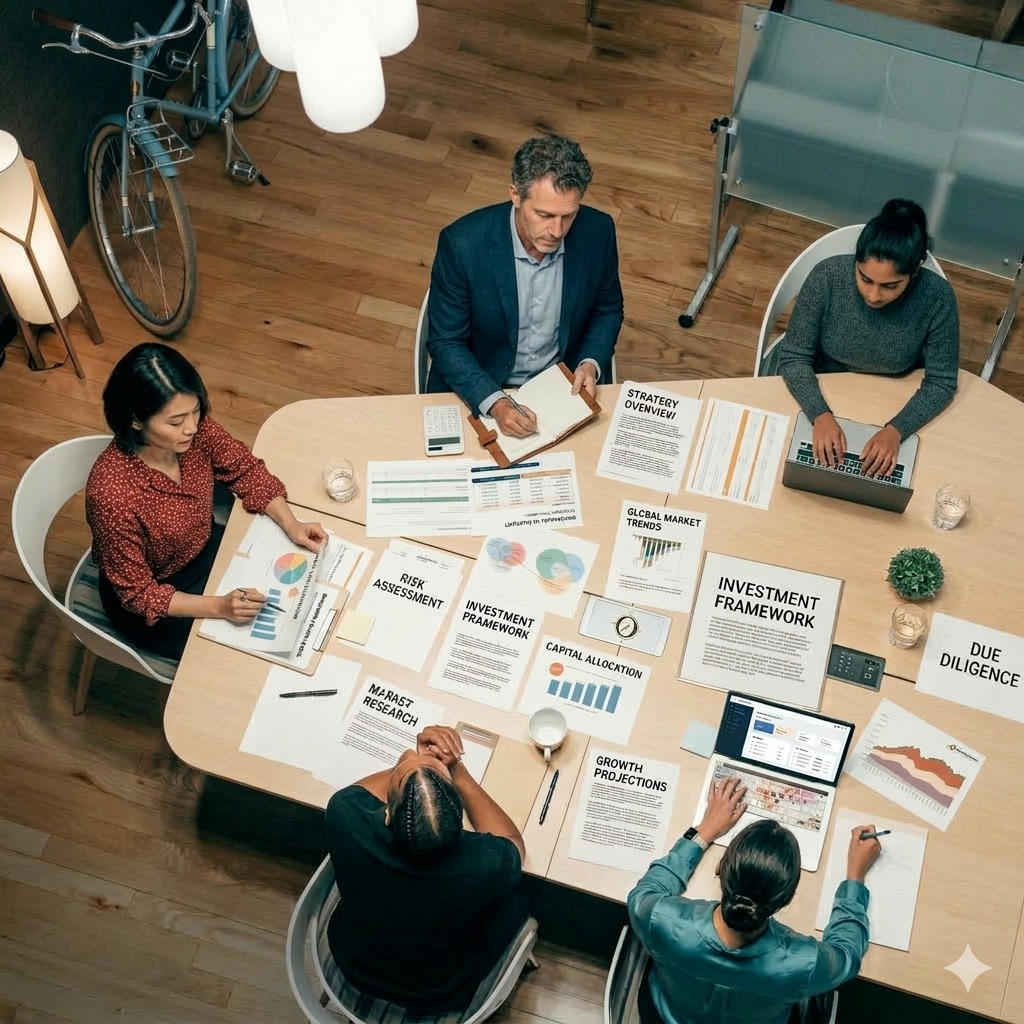
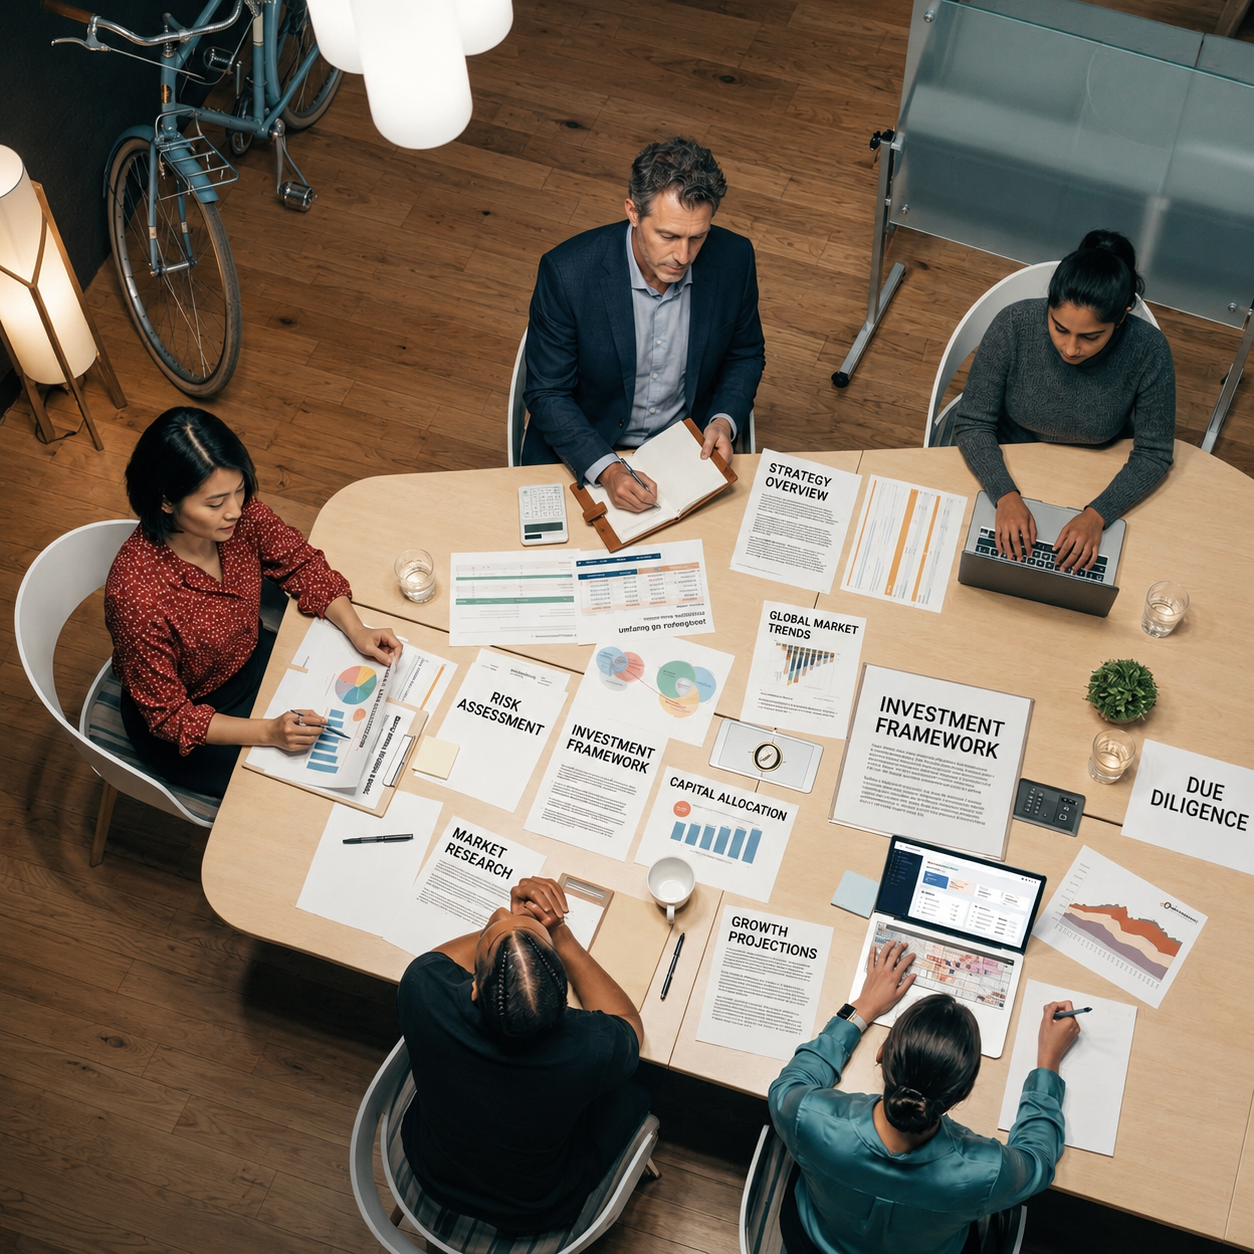
.

diff --git a/Assets/css/main.css b/Assets/css/main.css
@@ -10,7 +10,7 @@
   --background-color: #ffffff; /* Background color for the entire website, including individual sections */
   --default-color: #52413a; /* Default color used for the majority of the text content across the entire website */
   --heading-color: #31221c; /* Color for headings, subheadings and title throughout the website */
-  --accent-color: #f85d23; /* Accent color that represents your brand on the website. It's used for buttons, links, and other elements that need to stand out */
+  --accent-color: #d98400; /* Accent color that represents your brand on the website. It's used for buttons, links, and other elements that need to stand out */
   --surface-color: #ffffff; /* The surface color is used as a background of boxed elements within sections, such as cards, icon boxes, or other elements that require a visual separation from the global background. */
   --contrast-color: #ffffff; /* Contrast color for text, ensuring readability against backgrounds of accent, heading, or default colors. */
 }
@@ -18,11 +18,11 @@
 /* Nav Menu Colors - The following color variables are used specifically for the navigation menu. They are separate from the global colors to allow for more customization options */
 :root {
   --nav-color: #52413a;  /* The default color of the main navmenu links */
-  --nav-hover-color: #f85d23; /* Applied to main navmenu links when they are hovered over or active */
+  --nav-hover-color: #d98400; /* Applied to main navmenu links when they are hovered over or active */
   --nav-mobile-background-color: #ffffff; /* Used as the background color for mobile navigation menu */
   --nav-dropdown-background-color: #ffffff; /* Used as the background color for dropdown items that appear when hovering over primary navigation items */
   --nav-dropdown-color: #52413a; /* Used for navigation links of the dropdown items in the navigation menu. */
-  --nav-dropdown-hover-color: #f85d23; /* Similar to --nav-hover-color, this color is applied to dropdown navigation links when they are hovered over. */
+  --nav-dropdown-hover-color: #d98400; /* Similar to --nav-hover-color, this color is applied to dropdown navigation links when they are hovered over. */
 }
 
 /* Color Presets - These classes override global colors when applied to any section or element, providing reuse of the sam color scheme. */
@@ -497,7 +497,7 @@ font-size:18px;
 }
 
 .social-links a:hover{
-color:#ff4d4d;
+color:var(--accent-color);
 }
 
 .footer-top-row{
@@ -908,7 +908,7 @@ section,
   left: 0;
   width: 100%;
   height: 0;
-  background: color-mix(in srgb, var(--accent-color), transparent 92%);
+  background: color-mix(in srgb, #53a6a5, transparent 92%);
   z-index: -1;
   transition: height 0.5s cubic-bezier(0.65, 0, 0.35, 1);
   border-radius: 12px;
@@ -924,7 +924,7 @@ section,
 }
 
 .about .feature-box:hover .icon-container {
-  background: var(--accent-color);
+  background: #53a6a5;
   color: var(--contrast-color);
 }
 
@@ -932,15 +932,15 @@ section,
   width: 70px;
   height: 70px;
   border-radius: 50%;
-  background: color-mix(in srgb, var(--accent-color), transparent 90%);
-  color: var(--accent-color);
+  background: color-mix(in srgb, #53a6a5, transparent 90%);
+  color: #53a6a5;
   display: flex;
   align-items: center;
   justify-content: center;
   margin: 0 auto 1.5rem;
   font-size: 1.8rem;
   transition: all 0.3s ease;
-  box-shadow: 0 5px 15px color-mix(in srgb, var(--accent-color), transparent 85%);
+  box-shadow: 0 5px 15px color-mix(in srgb, #53a6a5, transparent 85%);
 }
 
 .about .feature-box h4 {
@@ -1335,7 +1335,7 @@ section,
   justify-content: center;
   width: 60px;
   height: 60px;
-  background: color-mix(in srgb, var(--accent-color), transparent 90%);
+  background: color-mix(in srgb, #53a6a5, transparent 90%);
   border-radius: 50%;
   margin-right: 15px;
   flex-shrink: 0;
@@ -1343,7 +1343,7 @@ section,
 
 .stats .stats-card .stats-icon i {
   font-size: 24px;
-  color: var(--accent-color);
+  color: #53a6a5;
 }
 
 .stats .stats-card .stats-content {
@@ -1366,7 +1366,7 @@ section,
 .stats .stats-card .stats-content .stats-number .plus {
   font-size: 24px;
   font-weight: 700;
-  color: var(--accent-color);
+  color: #53a6a5;
   margin-left: 2px;
 }
 
@@ -1420,9 +1420,13 @@ section,
 
 .services .services-headline .services-subtitle {
   color: var(--accent-color);
-  font-weight: 600;
+  font-weight: 500;
   margin-bottom: 10px;
-  font-size: 18px;
+  font-size: 15px;
+  border: 1px solid var(--accent-color);
+  width: fit-content;
+  padding: 5px 10px;
+  border-radius: 50px;
 }
 
 .services .services-headline .services-title {
@@ -1472,7 +1476,7 @@ section,
 }
 
 .services .service-card {
-  background-color: color-mix(in srgb, var(--accent-color), transparent 92%);
+  background-color: color-mix(in srgb, #53a6a5, transparent 92%);
   border-radius: 25px;
   padding: 30px 25px;
   margin-bottom: 25px;
@@ -1482,7 +1486,7 @@ section,
 }
 
 .services .service-card:hover {
-  background-color: var(--accent-color);
+  background-color: #53a6a5;
   transform: translateY(-5px);
 }
 
@@ -1537,7 +1541,7 @@ section,
 .services .service-content .service-action .read-more-btn {
   display: inline-block;
   padding: 8px 16px;
-  background-color: var(--accent-color);
+  background-color: #53a6a5;
   color: var(--contrast-color);
   border-radius: 5px;
   font-weight: 600;
@@ -2151,7 +2155,7 @@ section,
 }
 
 .faq .faq-cta {
-  background-color: color-mix(in srgb, var(--accent-color), transparent 92%);
+  background-color: color-mix(in srgb, #53a6a5, transparent 92%);
   padding: 30px;
   border-radius: 10px;
 }
@@ -2399,8 +2403,8 @@ section,
   height: 50px;
   border-radius: 50%;
   background-color: transparent;
-  border: 2px solid var(--accent-color);
-  color: var(--accent-color);
+  border: 2px solid #53a6a5;
+  color: #53a6a5;
   font-size: 20px;
   display: flex;
   align-items: center;
@@ -2410,7 +2414,7 @@ section,
 }
 
 .team .team-intro .team-navigation button:hover {
-  background-color: var(--accent-color);
+  background-color: #53a6a5;
   color: var(--contrast-color);
 }
 
@@ -2607,7 +2611,7 @@ section,
   width: 50px;
   height: 50px;
   flex-shrink: 0;
-  background-color: color-mix(in srgb, var(--accent-color), transparent 90%);
+  background-color: color-mix(in srgb, #53a6a5, transparent 90%);
   border-radius: 10px;
   display: flex;
   justify-content: center;
@@ -2616,7 +2620,7 @@ section,
 
 .contact .contact-card .icon-box i {
   font-size: 22px;
-  color: var(--accent-color);
+  color: #53a6a5;
 }
 
 .contact .contact-card .contact-text h4 {
@@ -3163,7 +3167,7 @@ section,
 /* VC Stats Section */
 
 .vc-stats {
-  background: #f6f6f6;
+  background: color-mix(in srgb, rgb(83, 166, 165) 8%, transparent);
   padding: 90px 0;
 }
 
@@ -3173,8 +3177,7 @@ section,
 
 .stat-icon {
   font-size: 55px;
-  color: var(--accent-color);
-  margin-bottom: 15px;
+  color: #53a6a5;
   display: block;
 }
 
@@ -3185,9 +3188,9 @@ section,
 }
 
 .stat-box p {
-    font-size: 20px;
+    font-size: 16px;
     color: #7a7a7a;
-    font-weight: 700;
+    font-weight: 500;
     margin: 0;
 }
 
@@ -3198,11 +3201,16 @@ section,
 }
 
 .section-tag {
+  width: fit-content;
   color: var(--accent-color);
   font-size: 14px;
   font-weight: 600;
   display: block;
+  margin: 0px auto;
   margin-bottom: 10px;
+  border: 1px solid var(--accent-color);
+  border-radius: 50px;
+  padding: 5px 15px;
 }
 
 .section-header h2 {
@@ -3217,13 +3225,17 @@ section,
 }
 
 .startup-box {
+  background: color-mix(in srgb, rgb(83, 166, 165) 8%, transparent);
+  padding: 30px;
+  transition: 0.3s;
+  border-radius: 12px;
   padding: 30px;
   transition: 0.3s;
 }
 
 .startup-box i {
   font-size: 55px;
-  color: var(--accent-color);
+  color: #53a6a5;
   margin-bottom: 15px;
   display: block;
 }
@@ -3234,6 +3246,7 @@ section,
 }
 
 .startup-box:hover {
+  box-shadow: rgba(0, 0, 0, 0.1) 0px 8px 25px;
   transform: translateY(-6px);
 }
 

diff --git a/index.html b/index.html
@@ -321,7 +321,7 @@
                 </div>
         
         
-                <div class="row justify-content-center gy-5 mt-4">
+                <div class="row justify-content-center gy-3 mt-4">
         
                     <div class="col-lg-4 col-md-6">
                         <div class="startup-box">
@@ -369,7 +369,7 @@
         
         
                 <div class="mt-5">
-                    <a href="#" class="btn-start">Get Started</a>
+                    <a href="https://wa.me/918984203360?text=Hi%2C%20thank%20you%20for%20applying.%20Kindly%20wait%20for%20our%20assistant%20to%20contact." target="_blank" class="btn-start">Get Started</a>
                 </div>
         
             </div>